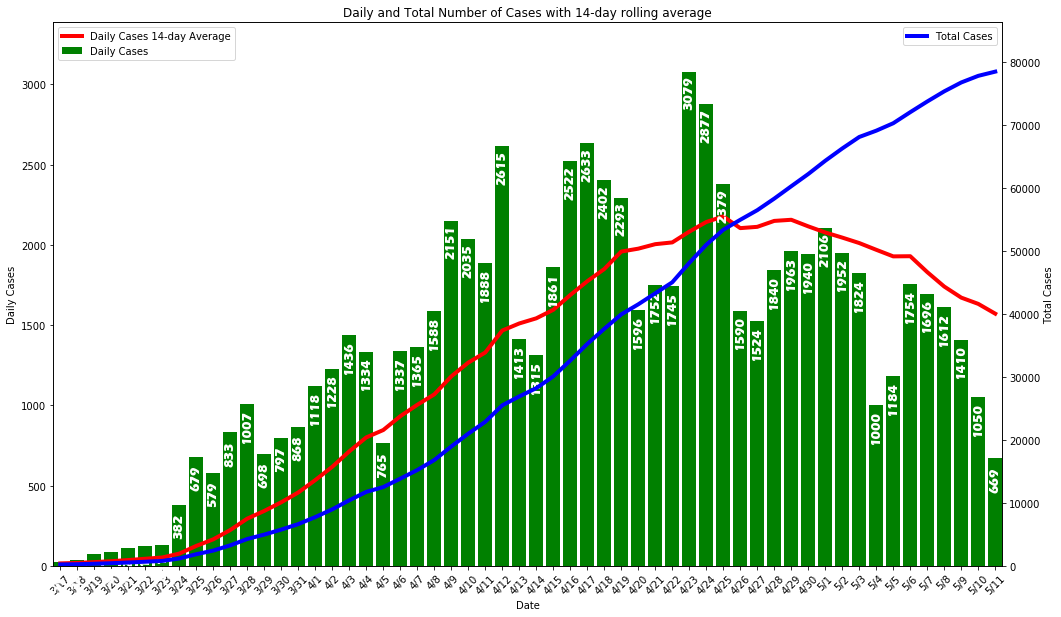
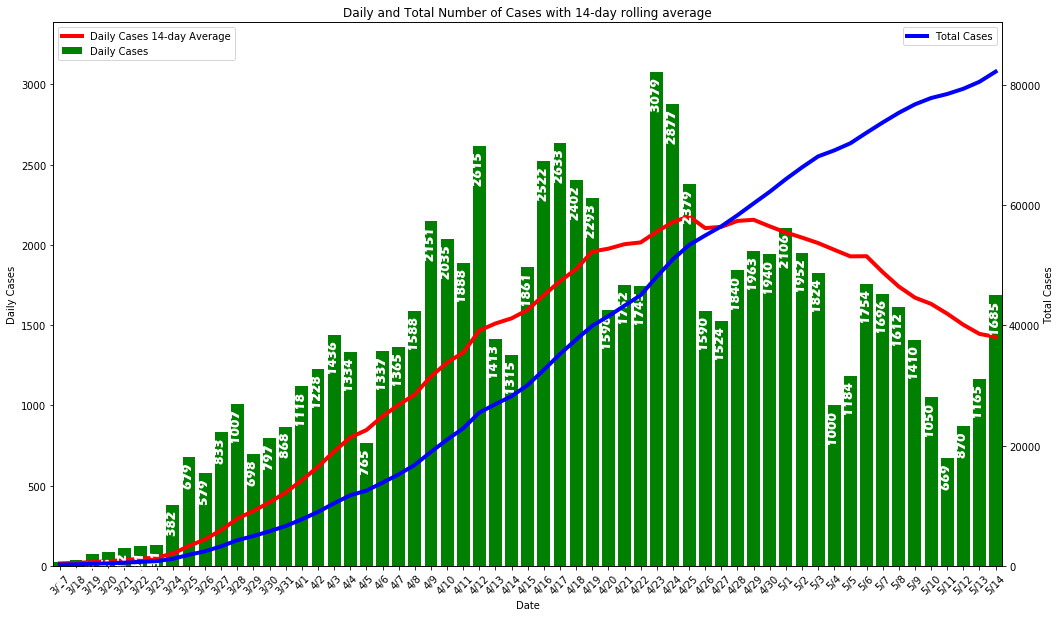
covid update

diff --git a/_posts/_old/2020-05-13-Massachusetts COVID-19 Tracker.md b/_posts/_old/2020-05-13-Massachusetts COVID-19 Tracker.md
@@ -1,0 +1,144 @@
+---
+layout: post
+title: "Massachusetts COVID-19 Tracker"
+img: MASS19_thumbnail.jpg
+img_thumbnail: MASS19_thumbnail_FULL.jpg
+date: 2020-05-13 12:54:00 +0300
+description: None. 
+tag: ['COVID-19', 'Coronavirus', 'Massachusetts']
+---
+
+
+
+
+
+
+
+
+
+
+
+
+
+
+
+
+
+
+
+
+
+
+
+
+
+
+
+
+<p align="center">
+    <img src="https://sdamolini.github.io/assets/img/MASS19/output_8_0.png" style="max-width:840px;">
+</p>
+
+
+
+
+
+
+
+
+
+
+
+
+
+
+
+
+
+<p align="center">
+    <img src="https://sdamolini.github.io/assets/img/MASS19/output_11_0.png" style="max-width:840px;">
+</p>
+
+
+
+
+
+
+
+
+
+
+
+
+
+
+
+
+
+<p align="center">
+    <img src="https://sdamolini.github.io/assets/img/MASS19/output_14_0.png" style="max-width:840px;">
+</p>
+
+
+
+
+
+
+
+
+
+
+
+
+
+
+
+<p align="center">
+    <img src="https://sdamolini.github.io/assets/img/MASS19/output_16_0.png" style="max-width:840px;">
+</p>
+
+
+
+
+
+
+
+
+
+
+
+
+
+
+
+
+
+
+
+
+
+
+
+<p align="center">
+    <img src="https://sdamolini.github.io/assets/img/MASS19/output_19_0.png" style="max-width:840px;">
+</p>
+
+
+
+
+
+<p align="center">
+    <img src="https://sdamolini.github.io/assets/img/MASS19/output_20_0.png" style="max-width:840px;">
+</p>
+
+
+Source of data: <a href="https://www.mass.gov/info-details/covid-19-cases-quarantine-and-monitoring" target="_blank">www.mass.gov</a>.  
+This is a work in progress with daily updates. If you have feedback, please send it to <a href="mailto:feedback@damolini.com">feedback@mass19.com</a>.
+
+
+
+
+
+
+
+

diff --git a/_posts/_old/2020-05-15-Massachusetts COVID-19 Tracker.md b/_posts/_old/2020-05-15-Massachusetts COVID-19 Tracker.md
@@ -1,0 +1,144 @@
+---
+layout: post
+title: "Massachusetts COVID-19 Tracker"
+img: MASS19_thumbnail.jpg
+img_thumbnail: MASS19_thumbnail_FULL.jpg
+date: 2020-05-15 12:54:00 +0300
+description: None. 
+tag: ['COVID-19', 'Coronavirus', 'Massachusetts']
+---
+
+
+
+
+
+
+
+
+
+
+
+
+
+
+
+
+
+
+
+
+
+
+
+
+
+
+
+
+<p align="center">
+    <img src="https://sdamolini.github.io/assets/img/MASS19/output_8_0.png" style="max-width:840px;">
+</p>
+
+
+
+
+
+
+
+
+
+
+
+
+
+
+
+
+
+<p align="center">
+    <img src="https://sdamolini.github.io/assets/img/MASS19/output_11_0.png" style="max-width:840px;">
+</p>
+
+
+
+
+
+
+
+
+
+
+
+
+
+
+
+
+
+<p align="center">
+    <img src="https://sdamolini.github.io/assets/img/MASS19/output_14_0.png" style="max-width:840px;">
+</p>
+
+
+
+
+
+
+
+
+
+
+
+
+
+
+
+<p align="center">
+    <img src="https://sdamolini.github.io/assets/img/MASS19/output_16_0.png" style="max-width:840px;">
+</p>
+
+
+
+
+
+
+
+
+
+
+
+
+
+
+
+
+
+
+
+
+
+
+
+<p align="center">
+    <img src="https://sdamolini.github.io/assets/img/MASS19/output_19_0.png" style="max-width:840px;">
+</p>
+
+
+
+
+
+<p align="center">
+    <img src="https://sdamolini.github.io/assets/img/MASS19/output_20_0.png" style="max-width:840px;">
+</p>
+
+
+Source of data: <a href="https://www.mass.gov/info-details/covid-19-cases-quarantine-and-monitoring" target="_blank">www.mass.gov</a>.  
+This is a work in progress with daily updates. If you have feedback, please send it to <a href="mailto:feedback@damolini.com">feedback@mass19.com</a>.
+
+
+
+
+
+
+
+

diff --git a/_posts/2020-05-15-Massachusetts COVID-19 Tracker.md b/_posts/2020-05-15-Massachusetts COVID-19 Tracker.md
@@ -3,7 +3,7 @@ layout: post
 title: "Massachusetts COVID-19 Tracker"
 img: MASS19_thumbnail.jpg
 img_thumbnail: MASS19_thumbnail_FULL.jpg
-date: 2020-05-11 12:54:00 +0300
+date: 2020-05-15 12:54:00 +0300
 description: None. 
 tag: ['COVID-19', 'Coronavirus', 'Massachusetts']
 ---
